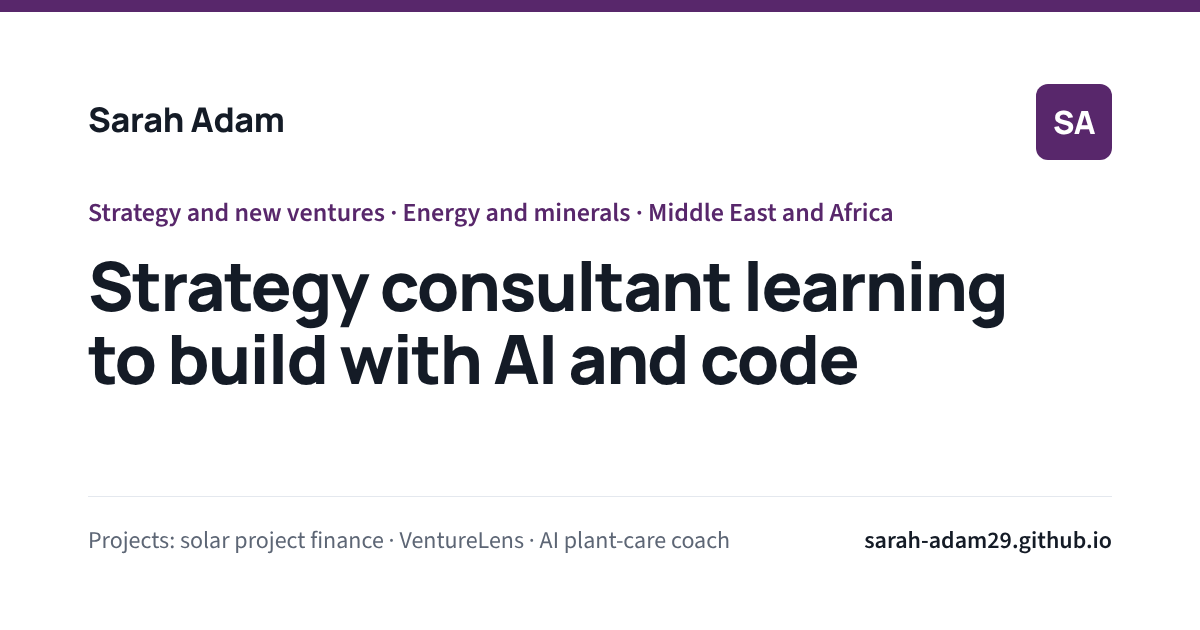
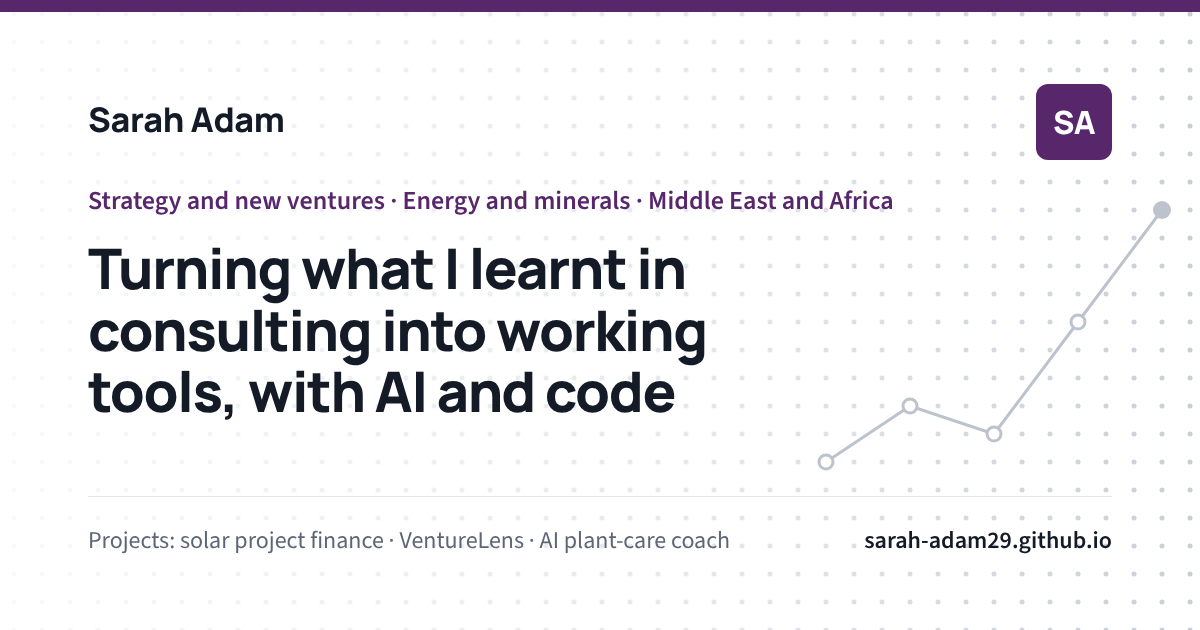
New headline and dot-grid hero

diff --git a/index.html b/index.html
@@ -3,16 +3,16 @@
 <head>
 <meta charset="utf-8">
 <meta name="viewport" content="width=device-width, initial-scale=1">
-<title>Sarah Adam – Strategy consultant learning to build with AI and code</title>
+<title>Turning what I learnt in consulting into working tools, with AI and code</title>
 <meta name="description" content="Eight years in strategy consulting across the Middle East and Africa: corporate strategy, commercial due diligence, new ventures and joint ventures.">
-<meta property="og:title" content="Sarah Adam – Strategy consultant learning to build with AI and code">
+<meta property="og:title" content="Turning what I learnt in consulting into working tools, with AI and code">
 <meta property="og:description" content="Eight years in strategy consulting across the Middle East and Africa: corporate strategy, commercial due diligence, new ventures and joint ventures.">
 <meta property="og:url" content="https://sarah-adam29.github.io/">
 <meta property="og:type" content="website">
 <meta property="og:image" content="https://sarah-adam29.github.io/og-image.png">
 <meta property="og:image:width" content="1200">
 <meta property="og:image:height" content="630">
-<meta property="og:image:alt" content="Sarah Adam – Strategy consultant learning to build with AI and code">
+<meta property="og:image:alt" content="Turning what I learnt in consulting into working tools, with AI and code">
 <meta name="twitter:card" content="summary_large_image">
 <link rel="icon" href="favicon.svg" type="image/svg+xml">
 <link rel="preconnect" href="https://fonts.googleapis.com">
@@ -37,13 +37,25 @@
 
 <main id="main">
 
-  <section id="top" class="container hero" aria-labelledby="hero-title">
-    <p class="eyebrow">Strategy and new ventures · Energy and minerals · Middle East and Africa</p>
-    <h1 id="hero-title">Strategy consultant learning to build with AI and code</h1>
-    <p class="lead">Eight years in strategy consulting across the Middle East and Africa: corporate strategy, commercial due diligence, new ventures and joint ventures. These are the projects I'm using to learn Python, Git and AI tools.</p>
-    <div class="button-row">
-      <a class="button button-primary" href="#projects">See the projects</a>
-      <a class="button button-secondary" href="https://github.com/sarah-adam29">GitHub profile</a>
+  <section id="top" class="hero" aria-labelledby="hero-title">
+    <svg class="hero-path" width="356" height="300" viewBox="0 0 356 300" fill="none" aria-hidden="true" focusable="false">
+      <polyline points="10,290 94,234 178,262 262,150 346,10" stroke="#BCC3CC" stroke-width="3" stroke-linecap="round" stroke-linejoin="round"/>
+      <circle cx="10" cy="290" r="7" fill="#FFFFFF" stroke="#BCC3CC" stroke-width="3"/>
+      <circle cx="94" cy="234" r="7" fill="#FFFFFF" stroke="#BCC3CC" stroke-width="3"/>
+      <circle cx="178" cy="262" r="7" fill="#FFFFFF" stroke="#BCC3CC" stroke-width="3"/>
+      <circle cx="262" cy="150" r="7" fill="#FFFFFF" stroke="#BCC3CC" stroke-width="3"/>
+      <circle cx="346" cy="10" r="9" fill="#BCC3CC"/>
+    </svg>
+    <div class="container">
+      <div class="hero-text">
+        <p class="eyebrow">Strategy and new ventures · Energy and minerals · Middle East and Africa</p>
+        <h1 id="hero-title">Turning what I learnt in consulting into working tools, with AI and code</h1>
+        <p class="lead">Eight years in strategy consulting across the Middle East and Africa: corporate strategy, commercial due diligence, new ventures and joint ventures. These are the projects I'm using to learn Python, Git and AI tools.</p>
+        <div class="button-row">
+          <a class="button button-primary" href="#projects">See the projects</a>
+          <a class="button button-secondary" href="https://github.com/sarah-adam29">GitHub profile</a>
+        </div>
+      </div>
     </div>
   </section>
 

diff --git a/styles.css b/styles.css
@@ -10,6 +10,7 @@
   --border: #E4E8EE;
   --card-border: #DDE3EB;
   --dashed-border: #BCC5D1;
+  --dot: #C9CED6;
   --white: #FFFFFF;
 
   --published: #1E7046;
@@ -162,8 +163,40 @@ h2 {
 /* Hero */
 
 .hero {
+  position: relative;
+  overflow: hidden;
+  isolation: isolate;
   padding-top: 112px;
   padding-bottom: 96px;
+}
+
+/* Dot grid: a dot every 28px from the page centre, and at 14px + multiples of 28px from the top */
+.hero::before {
+  content: "";
+  position: absolute;
+  inset: 0;
+  z-index: 0;
+  pointer-events: none;
+  background-image: radial-gradient(circle, var(--dot) 2.5px, transparent 3px);
+  background-size: 28px 28px;
+  background-position: 50% 0;
+  -webkit-mask-image: linear-gradient(to right, rgba(0, 0, 0, 0.12) 0%, rgba(0, 0, 0, 0.45) 55%, #000 100%);
+  mask-image: linear-gradient(to right, rgba(0, 0, 0, 0.12) 0%, rgba(0, 0, 0, 0.45) 55%, #000 100%);
+}
+
+/* Every point of the path sits on a dot. If top changes, keep it at 116px plus or minus a multiple of 28px */
+.hero-path {
+  position: absolute;
+  z-index: 0;
+  pointer-events: none;
+  left: calc(50% + 186px);
+  top: 116px;
+}
+
+.hero-text {
+  position: relative;
+  z-index: 1;
+  max-width: 700px;
 }
 
 .eyebrow {
@@ -179,6 +212,7 @@ h1 {
   font-size: 60px;
   line-height: 1.08;
   letter-spacing: -0.02em;
+  text-wrap: balance;
 }
 
 .lead {
@@ -484,6 +518,14 @@ h1 {
 .footer-links {
   display: flex;
   gap: 24px;
+}
+
+/* Hide the hero path before it can run into the text */
+
+@media (max-width: 1119px) {
+  .hero-path {
+    display: none;
+  }
 }
 
 /* Smaller screens */

diff --git a/CLAUDE.md b/CLAUDE.md
@@ -2,7 +2,7 @@
 
 Portfolio site for Sarah Adam, served by GitHub Pages from `main` at https://sarah-adam29.github.io/.
 
-Plain HTML and CSS: `index.html`, `styles.css`, `favicon.svg`. No framework, no build step, no JavaScript unless strictly needed. Preview by opening `index.html` in a browser. `design/mockup-reference.html` is the approved design; its inline styles are for reference only.
+Plain HTML and CSS: `index.html`, `styles.css`, `favicon.svg`. No framework, no build step, no JavaScript unless strictly needed. Preview by opening `index.html` in a browser. The live `index.html` and `styles.css` are the design reference; there is no separate mock-up file.
 
 ## Public data only
 
@@ -16,7 +16,7 @@ Don't rewrite site copy unless asked.
 
 - White background. The plum accent (`--accent`) appears only on the eyebrow line, primary buttons, links, the ~3% figure and the thin lines above the How I work items.
 - Buttons have a 6px corner radius. Never pill-shaped.
-- No cream or off-white page backgrounds, no monospace labels, no emoji, no 01/02/03 numbering, no gradients, no left-border accent cards, no animations.
+- No cream or off-white page backgrounds, no monospace labels, no emoji, no 01/02/03 numbering, no gradients, no left-border accent cards, no animations. The one exception to the gradient rule is the hero's light grey dot grid, which is drawn with CSS gradients.
 - Responsive: works at 375px wide with no horizontal scroll; nav wraps; cards stack.
 - Accessibility: text contrast at least 4.5:1, visible focus styles in the accent colour, external links keep normal behaviour (no forced new tabs).
 - Colours are CSS custom properties at the top of `styles.css`. Use them rather than hard-coded values.
